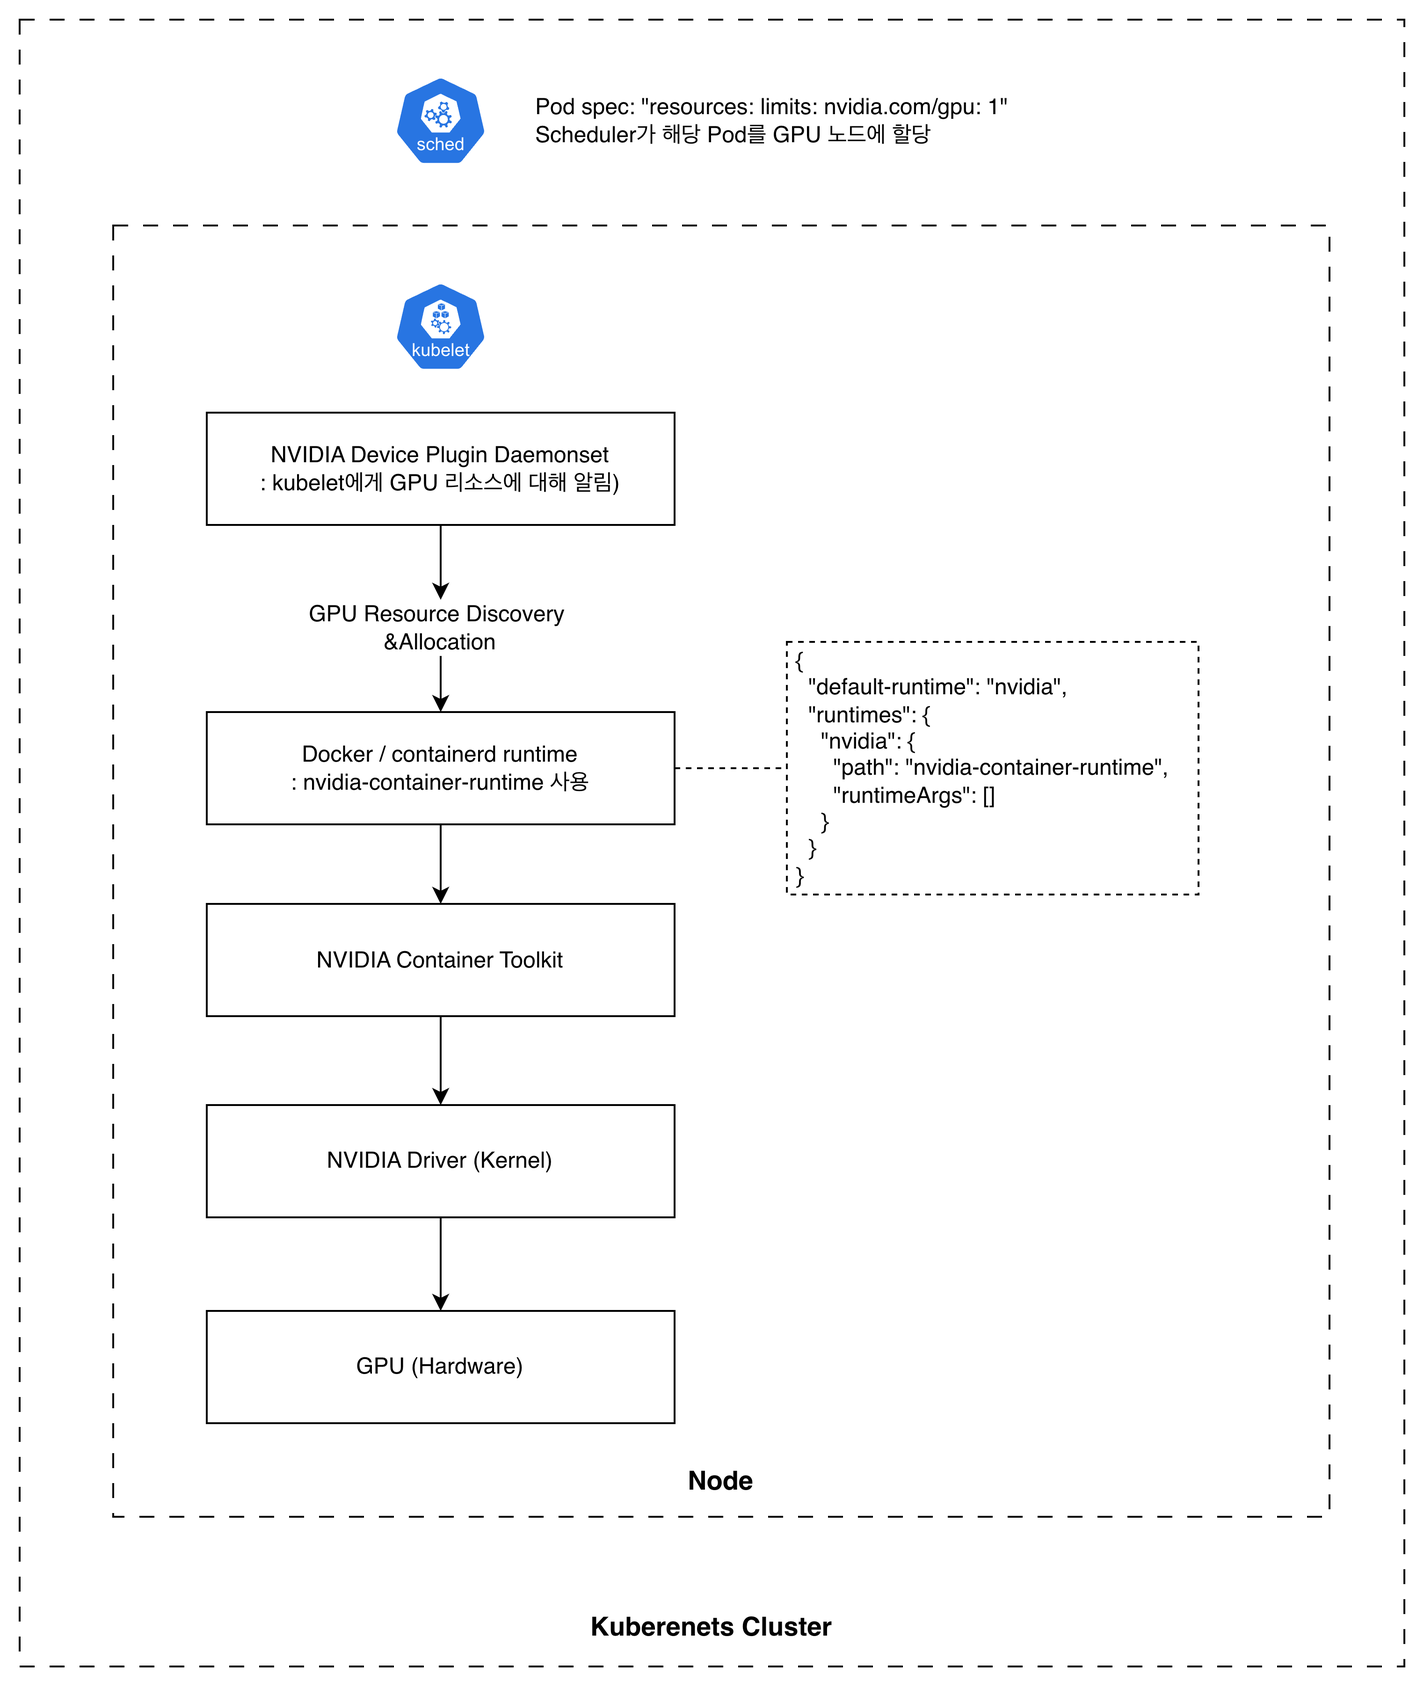
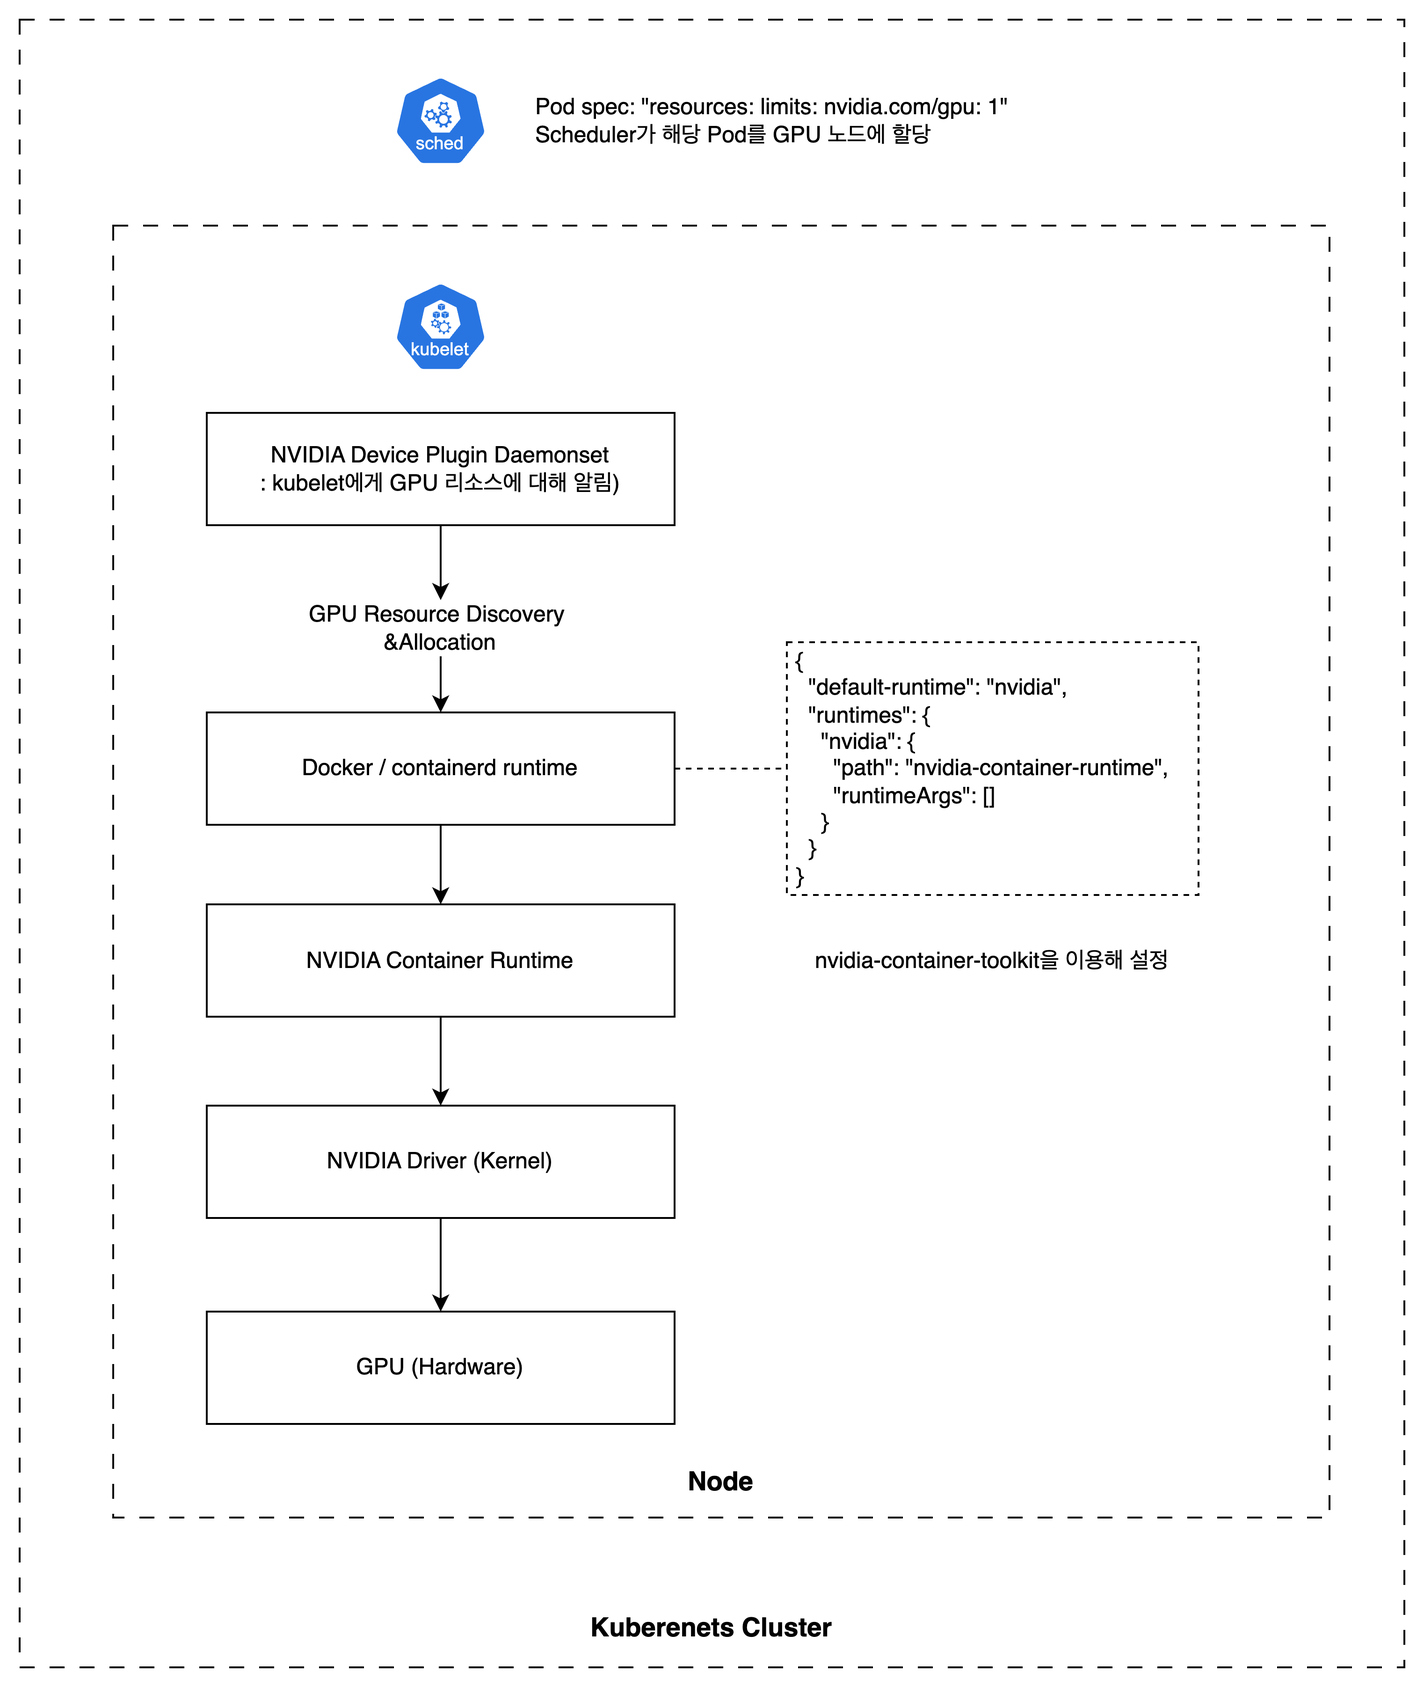
nvidia container runtime 발행

diff --git a/_posts/2024-07-21-Dev-Nvidia-Container-Runtime.md b/_posts/2024-07-21-Dev-Nvidia-Container-Runtime.md
@@ -1,0 +1,312 @@
+---
+title:  "[Container] NVIDIA Container Runtime"
+excerpt: 컨테이너 런타임과 NVIDIA Container Runtime에 대하여
+categories:
+  - Dev
+toc: true
+header:
+  teaser: /assets/images/blog-Dev.jpg
+tags:
+  - docker
+  - container
+  - nvidia
+  - gpu
+---
+
+[Kubernetes 환경에서 GPU를 사용하는 방법](https://sirzzang.github.io/dev/Dev-Kubernetes-GPU-Setting/)에 대해 공부하다, NVIDIA Container Runtime에 대해 더 알아 본 내용에 대해 작성한다.
+
+<br>
+# Container Runtime
+
+ NVIDIA Container Runtime을 알기 위해 먼저 Container Runtime에 대해 알아야 한다. 말 그대로, **컨테이너를 실행하고 관리하는 환경 혹은 소프트웨어**라고 보면 된다. 
+ 
+컨테이너 런타임은 크게 **고수준 런타임**과 **저수준 런타임**으로 나뉘며, 각각 다른 표준 규격을 따른다.
+
+```
+┌─────────────────────────────────────────┐
+│   High-Level Runtime (CRI)              │
+│   Docker, containerd, CRI-O             │ ← kubectl이 통신하는 레벨
+└─────────────────────────────────────────┘
+              ↓
+┌─────────────────────────────────────────┐
+│   Low-Level Runtime (OCI)               │
+│   runc, crun, kata-runtime              │ ← 실제 컨테이너 생성
+└─────────────────────────────────────────┘
+              ↓
+┌─────────────────────────────────────────┐
+│   Linux Kernel (namespaces, cgroups)    │
+└─────────────────────────────────────────┘
+```
+- 고수준 컨테이너 런타임: Docker, containerd, CRI-O → CRI 규격
+  - Kubernetes/CNCF에서 정의
+  - 쿠버네티스 환경에서의 kubelet이 통신하는 런타임
+  - 이미지 관리, 네트워크, 볼륨, API 등 고수준 레벨 작업 처리
+- 저수준 컨테이너 런타임: runc, crun, kata-runtime → OCI 규격
+  - Linux Foundation에서 정의
+  - 실제 컨테이너 프로세스 생성
+
+<br>
+
+## 동작 원리
+- Docker : dockerd → containerd → runc → container
+  - 가장 친숙한 컨테이너 엔진인 Docker의 경우, 내부적으로 containerd와 runc를 이용함
+  - 따라서 Docker 사용 시, 아래와 같은 파일을 찾아볼 수 있음
+- containerd: containerd → runc → container
+- 그 외 다른 컨테이너 런타임(CRI-O, Podman, Kata 등)도 당연히 있으며, Docker, containerd와 같이 내부적으로 저수준 컨테이너 런타임을 호출하는 방식으로 동작함 
+
+> 참고: Docker와 containerd의 관계
+> 
+> 컨테이너 런타임에 대해 알아보다가 대관절 궁금해진 것. 어차피 contaienrd를 이용하면, 대관절 사람들은 왜 containerd를 안 쓰고 Docker를 사용할까? 결국 Docker는 containerd를 한 번 래핑해 놓은 것이 아닌가?
+> 
+> 이에 대해 찾아 보니, 역사적인 이유가 있다고 한다. 최초 Docker의 전성기 때, 즉, 컨테이너 솔루션으로 Docker가 최전성기를 달리고 있을 때, containerd는 Docker의 일부였다고 한다. Kubernetes도 컨테이너 오케스트레이션 솔루션이었으니, Docker에 의존할 수 밖에 없었고. 그런데, 2015년부터 Docker 내부 구조가 슬슬 분리되기 시작했다고 한다. dockerd와 containerd로, 그리고 OCI 표준화에 의해 runc로. 그러다 2020년대에 Kubernetes가 Docker 지원을 중단하게 되면서, 대대적인 변화가 나타났다고 한다.
+> 
+> 어쩌면 지금 사람들이 Docker를 계속 사용하는 건 관성적인 이유도 있을 것이고, 레거시 시스템이나 개발 환경이 Docker에 의존하기 때문도 있을 것이라 보인다. 다만, 컨테이너 런타임 계층 구조에 대해 알게 되니, 굳이 Docker에만 의존해서 개발할 필요는 없어 보이기도 한다.
+> 
+> 어쨌든, 재미있는 이야기다. 나중에 시간 나면 역사 공부하듯 재미 삼아 찾아 봐도 좋을 듯하다.
+
+
+<br> 
+
+# NVIDIA Container Runtime
+
+컨테이너 런타임에서 NVIDIA GPU를 사용할 수 있게 해 주는 소프트웨어다. 정확히는, OCI 규격의 컨테이너 런타임에서 NVIDIA GPU를 사용할 수 있게 한다. 
+> [공식 문서](https://developer.nvidia.com/container-runtime)에 의하면, GPU aware container runtime, compatible with the Open Containers Initiative(OCI) specification used by Docker, CRI-O, and other popular container techonologies로, OCI 런타임과 호환된다는 것이 명시되어 있다.
+
+구조적으로는 **runc(저수준 컨테이너 런타임)에 GPU 기능을 추가**해 놓은 런타임이다. runc의 NVIDIA wrapper인 셈이다. 실제 containerd의 설정 파일 예시: runc 기반의 래퍼임을 확인할 수 있다.
+```toml
+[plugins."io.containerd.grpc.v1.cri".containerd.runtimes.nvidia]
+runtime_type = "io.containerd.runc.v2"  # runc 기반
+
+[plugins."io.containerd.grpc.v1.cri".containerd.runtimes.nvidia.options]
+  BinaryName = "/usr/local/nvidia/toolkit/nvidia-container-runtime"  # NVIDIA 래퍼
+```
+
+## NVIDIA Container Toolkit
+
+NVIDIA Container Toolkit은 컨테이너 환경에서 NVIDIA GPU를 사용하기 위한 **전체 도구 모음(패키지)**이다. NVIDIA Container Runtime은 이 Toolkit의 핵심 구성 요소 중 하나이며, Toolkit을 설치하면 `nvidia-container-runtime`을 포함한 여러 도구들이 함께 설치되어 GPU를 컨테이너에 노출시킬 수 있게 된다.
+
+```
+NVIDIA Container Toolkit (전체 패키지)
+  ├─ nvidia-container-runtime      # 런타임 래퍼
+  ├─ nvidia-container-runtime-hook # 실제 작업 수행
+  ├─ nvidia-container-cli          # GPU 디바이스 관리
+  ├─ libnvidia-container           # 핵심 라이브러리
+  └─ nvidia-ctk                    # 설정 도구
+```
+
+- 구성 요소
+  - `nvidia-container-runtime`: `/usr/bin/nvidia-container-runtime`
+    - runc의 wrapper 역할
+  - `nvidia-container-runtime-hook`: `/usr/bin/nvidia-container-runtime-hook`
+    - OCI prestart hook으로 동작하며, 실제 GPU 설정 작업 수행
+  - `nvidia-container-cli`: `/usr/bin/nvidia-container-cli`
+    - GPU 디바이스 파일과 라이브러리를 컨테이너에 마운트
+  - `libnvidia-container`: 핵심 라이브러리
+    - GPU 드라이버와 디바이스를 컨테이너 내부로 마운트하는 핵심 로직 구현
+    - 다른 모든 도구들이 이 라이브러리를 사용하여 실제 GPU 작업 수행
+  - `nvidia-ctk`: `/usr/bin/nvidia-ctk`
+    - 컨테이너 런타임 설정을 자동화하는 도구
+
+<br>
+
+### libnvidia-container의 역할
+
+`libnvidia-container`는 NVIDIA Container Toolkit의 **가장 핵심이 되는 라이브러리**로, 실제로 GPU를 컨테이너에서 사용 가능하게 만드는 로직을 담당한다. 컨테이너는 기본적으로 호스트 시스템과 격리된 환경이기 때문에, 호스트의 GPU에 직접 접근할 수 없다. `libnvidia-container`는 이 격리 환경에 안전하게 GPU 리소스를 연결하는 역할을 한다.
+
+구체적으로는 다음과 같은 작업을 수행한다:
+- **GPU 디바이스 파일 마운트**: `/dev/nvidia0`, `/dev/nvidiactl`, `/dev/nvidia-uvm` 등 GPU 디바이스 파일을 컨테이너 네임스페이스에 마운트
+- **NVIDIA 드라이버 연결**: 호스트에 설치된 NVIDIA 드라이버를 컨테이너 내부에서 사용할 수 있도록 연결
+- **CUDA 라이브러리 마운트**: `libcuda.so`, `libnvidia-ml.so` 등 GPU 연산에 필요한 라이브러리들을 컨테이너에 마운트
+- **환경 변수 설정**: GPU 관련 환경 변수(`NVIDIA_VISIBLE_DEVICES` 등)를 컨테이너 환경에 주입
+
+이 라이브러리는 `nvidia-container-cli`와 `nvidia-container-runtime-hook`에 의해 호출되어 사용된다.
+
+<br>
+
+### 동작 흐름
+
+NVIDIA Container Toolkit의 구성 요소들이 어떻게 동작하여 GPU를 컨테이너에 연결하는지 살펴보자.
+
+1. **컨테이너 런타임 설정 (초기 설정)**
+   - `nvidia-ctk`를 이용해 Docker나 containerd 설정 파일에 nvidia 런타임 등록
+
+2. **컨테이너 실행 시 동작**
+   1. `nvidia-container-runtime` 실행 (runc wrapper)
+   2. `nvidia-container-runtime-hook` 호출 (OCI prestart hook)
+      > 참고: OCI Runtime Hooks
+      > 
+      > OCI(Open Container Initiative) 표준은 컨테이너 생성 과정의 특정 시점에 추가 작업을 주입할 수 있는 **Hooks 메커니즘**을 제공한다. Hook 종류로는 `prestart`, `createRuntime`, `createContainer`, `startContainer`, `poststart`, `poststop` 등이 있으며, `nvidia-container-runtime-hook`은 **prestart hook**으로 동작한다.
+      > 
+      > Prestart hook은 컨테이너 네임스페이스가 생성된 후, 컨테이너 프로세스가 시작되기 **직전**에 실행된다. 이 시점에 GPU 디바이스, 라이브러리, 환경 변수를 컨테이너 스펙에 주입하고, 수정된 스펙으로 runc가 컨테이너를 생성하게 된다. 이것이 NVIDIA가 runc를 직접 수정하지 않고도 GPU 기능을 추가할 수 있는 핵심 메커니즘이다.
+   3. `nvidia-container-cli` 실행
+      - 이때 `libnvidia-container` 라이브러리 사용
+      - GPU 디바이스 파일(`/dev/nvidia0`, `/dev/nvidiactl` 등) 컨테이너에 추가
+      - CUDA 라이브러리 마운트
+      - GPU 관련 환경 변수 설정
+   4. 수정된 컨테이너 스펙으로 `runc` 호출하여 실제 컨테이너 생성
+
+즉, **libnvidia-container**가 실제 GPU 연결 로직을 구현하고, **nvidia-container-cli**가 이 라이브러리를 사용하며, **nvidia-container-runtime-hook**이 이 모든 과정을 OCI 표준에 맞게 진행된다.
+
+<br>
+
+# 동작 구조
+
+컨테이너 환경에서의 컨테이너 런타임 동작 원리만 알면, 쿠버네티스 환경으로 확장하는 것은 쉽다.
+
+## Container, w/o NVIDIA GPU
+- Docker: dockerd → containerd → runc → 컨테이너
+- containerd: containerd → runc → 컨테이너
+
+## Container, w/ NVIDIA GPU
+- Docker: dockerd → containerd → nvidia-container-runtime → runc → 컨테이너
+  - Docker에 `nvidia-container-runtime`이 설정되어 있어야 함
+    ```json
+    // /etc/docker/daemon.json
+    {
+      "runtimes": {
+        "nvidia": {
+          "path": "/usr/bin/nvidia-container-runtime",
+          "runtimeArgs": []
+        }
+      }
+    }
+    ```
+- containerd 런타임일 경우: containerd → nvidia-container-runtime → runc → 컨테이너
+  - containerd에 `nvidia-container-runtime`이 설정되어 있어야 함
+    ```toml
+    # /etc/containerd/config.toml
+    version = 2
+
+    [plugins."io.containerd.grpc.v1.cri".containerd.runtimes.nvidia]
+      runtime_type = "io.containerd.runc.v2"
+      
+      [plugins."io.containerd.grpc.v1.cri".containerd.runtimes.nvidia.options]
+        BinaryName = "/usr/bin/nvidia-container-runtime"
+        SystemdCgroup = true
+    ```
+
+## Kubernetes, w/o GPU
+- kubelet (CRI) → CRI-O → runc → 컨테이너
+- kubelet (CRI) → containerd → → VM → 컨테이너
+  - kata-runtime의 경우, 경량 가상머신으로 격리되어 있다고 함
+
+## Kubernetes, w/ GPU
+- kubelet (CRI) → dockerd → containerd → nvidia-container-runtime → runc → 컨테이너
+- kubelet → containerd → nvidia-container-runtime → runc → 컨테이너
+- kubelet → CRI-O → nvidia-container-runtime → runc → 컨테이너
+
+<br>
+
+# 실제 사용 예시
+
+Docker, Kubernetes 환경 각각에서 NVIDIA Container Runtime을 이용해 GPU를 사용할 수 있다.
+
+## Docker에서 GPU 사용
+
+NVIDIA Container Toolkit을 설치한 후, Docker에서 GPU를 사용하려면 `--gpus` 플래그를 사용한다.
+
+```bash
+# 모든 GPU 사용
+docker run --rm --gpus all nvidia/cuda:11.0-base nvidia-smi
+
+# 특정 GPU만 사용 (GPU 0, 1번)
+docker run --rm --gpus '"device=0,1"' nvidia/cuda:11.0-base nvidia-smi
+
+# GPU 개수 지정
+docker run --rm --gpus 2 nvidia/cuda:11.0-base nvidia-smi
+```
+
+## Kubernetes에서 GPU 사용
+
+Kubernetes에서는 `RuntimeClass`를 정의하여 특정 Pod에서 NVIDIA Container Runtime을 사용하도록 설정할 수 있다.
+
+```yaml
+# RuntimeClass 정의
+apiVersion: node.k8s.io/v1
+kind: RuntimeClass
+metadata:
+  name: nvidia
+handler: nvidia # [plugins."io.containerd.grpc.v1.cri".containerd.runtimes.nvidia]와 매칭
+---
+# Pod에서 RuntimeClass 사용
+apiVersion: v1
+kind: Pod
+metadata:
+  name: gpu-pod
+spec:
+  runtimeClassName: nvidia  # nvidia 런타임 지정
+  containers:
+  - name: cuda-container
+    image: nvidia/cuda:11.0-base
+    command: ["nvidia-smi"]
+    resources:
+      limits:
+        nvidia.com/gpu: 1  # GPU 1개 요청
+```
+
+## 설치 및 설정 확인
+
+NVIDIA Container Toolkit 설치 및 Docker 런타임 설정에 대한 자세한 내용은 [Kubernetes 환경에서 GPU 사용하기](https://sirzzang.github.io/dev/Dev-Kubernetes-GPU-Setting/)를 참고하자. 여기서는 간단히 확인 방법만 살펴본다.
+
+```bash
+# 설치 확인
+docker run --rm --gpus all nvidia/cuda:11.0-base nvidia-smi
+```
+
+실행 결과로 GPU 정보가 출력되면 정상적으로 설정된 것이다.
+
+```
++-----------------------------------------------------------------------------+
+| NVIDIA-SMI 525.60.13    Driver Version: 525.60.13    CUDA Version: 12.0   |
+|-------------------------------+----------------------+----------------------+
+| GPU  Name        Persistence-M| Bus-Id        Disp.A | Volatile Uncorr. ECC |
+| Fan  Temp  Perf  Pwr:Usage/Cap|         Memory-Usage | GPU-Util  Compute M. |
+...
+```
+
+<br>
+
+# 결론
+
+결과적으로, NVIDIA Container Runtime은 컨테이너 환경이나 쿠버네티스 환경에서 NVIDIA GPU를 사용하기 위한 컨테이너 런타임이라고 정의하면 된다. 고수준 컨테이너 런타임에서 호출되어, GPU 기능을 감싸 저수준 컨테이너 런타임을 호출하는 역할을 한다.
+
+지금까지는 NVIDIA GPU에 국한되어 이야기했으나, 사실 다른 GPU 벤더사의 경우도 동일하다. 벤더사 별로 자신의 GPU 기능과 runc를 감싸 컨테이너 런타임을 제공하면 되는 것이다. 조금 더 구체적으로는,
+- 아래와 같은 OCI 명세를 따르며
+  - config 읽기
+  - namespace/cgroup 설정
+  - 프로세스 실행
+  - ...
+- GPU를 사용할 수 있는 기능을 제공하는 
+  - config 수정
+  - GPU 기능 추가
+  - 실제 OCI 런타임 호출
+- 런타임을 만들면 되는 것이다.
+
+<br>
+
+GPU 벤더별로 달라질 뿐, 전부 다 동일한 위치에 있다.
+
+```
+┌─────────────────────────────────────┐
+│  High Level Container Runtime       │
+└─────────────────────────────────────┘
+              ↓
+┌─────────────────────────────────────┐
+│  GPU Runtime Wrapper (vendor 제공)   │
+│  - nvidia-container-runtime         │
+│  - rocm-container-runtime           │
+│  - intel-gpu-container-runtime      │
+└─────────────────────────────────────┘
+              ↓
+        GPU 디바이스 추가
+        라이브러리 마운트
+        환경변수 설정
+              ↓
+┌─────────────────────────────────────┐
+│  Low Level Container Runtime        │
+└─────────────────────────────────────┘
+              ↓
+        컨테이너 생성
+```
+
+Kubernetes 환경에서도 마찬가지로, GPU 벤더사가 앞선 글에서 살펴봤던 것과 같은 Device Plugin을 만들어 제공하기만 하면, 그것을 사용할 수 있게 되는 것이다.

diff --git a/_posts/2024-07-19-Dev-Kubernetes-GPU-Setting.md b/_posts/2024-07-19-Dev-Kubernetes-GPU-Setting.md
@@ -31,7 +31,7 @@ K8s 환경에서 GPU가 있는 노드를 사용하기 위해서는 Kubernetes ve
 
 - GPU 노드 Prerequisites
   - NVIDIA driver 설치
-  - [NVIDIA Docker](https://github.com/NVIDIA/nvidia-Docker) 혹은 [NVIDIA Container Toolkit](https://github.com/NVIDIA/nvidia-container-toolkit) 설치: **NVIDIA Container Toolkit**을 설치할 예정
+  - NVIDIA Container Runtime 설정: [NVIDIA Docker](https://github.com/NVIDIA/nvidia-Docker) 혹은 [NVIDIA Container Toolkit](https://github.com/NVIDIA/nvidia-container-toolkit) 설치 → **NVIDIA Container Toolkit**을 설치할 예정
     - NVIDIA Docker는 현재 deprecated로, NVIDIA Container Toolkit을 사용할 것을 권장하고 있음
       - 게다가, NVIDIA Docker는 윈도우 환경에서 활용할 수 없음
     - NVIDIA Container Toolkit 설치를 위한 [NVIDIA 공식 가이드](https://docs.nvidia.com/datacenter/cloud-native/container-toolkit/latest/install-guide.html)
@@ -136,7 +136,7 @@ service DevicePlugin {
 
 
 
-Kubernetes에 배포하기 앞서, 컨테이너 환경에서 GPU를 인식할 수 있도록 해야 한다.
+Kubernetes에 배포하기 앞서, 컨테이너 환경에서 GPU를 인식할 수 있도록 해야 한다. 컨테이너 런타임이 GPU를 인식할 수 있도록 해야 한다.
 
 ```bash
 [GPU Hardware]
@@ -369,14 +369,16 @@ sudo reboot
 
 
 
-## NVIDIA Container Toolkit 설치
+## NVIDIA Container Runtime 설정
 
 컨테이너에서 GPU를 사용할 수 있도록 NVIDIA Container Toolkit을 설치하고, 컨테이너 런타임의 설정을 변경한다.
 
-- NVIDIA Container Toolkit: 컨테이너 내부에서 GPU를 쓸 수 있도록 드라이버 연결
+- NVIDIA Container Toolkit: 컨테이너 내부에서 GPU를 쓸 수 있도록 설정하기 위한 도구 모음
 - Container Runtime: 컨테이너 실행 환경
   - Docker, containerd 등: Docker 사용
 - Nvidia-ctk: Docker runtime 설정 자동화
+
+> 결국 Kubernetes는 컨테이너 런타임에서 실행되는 컨테이너 관리를 위한 도구이기 때문에, 컨테이너 런타임이 GPU를 인식하는 것이 우선이다.
 
 <br>
 
